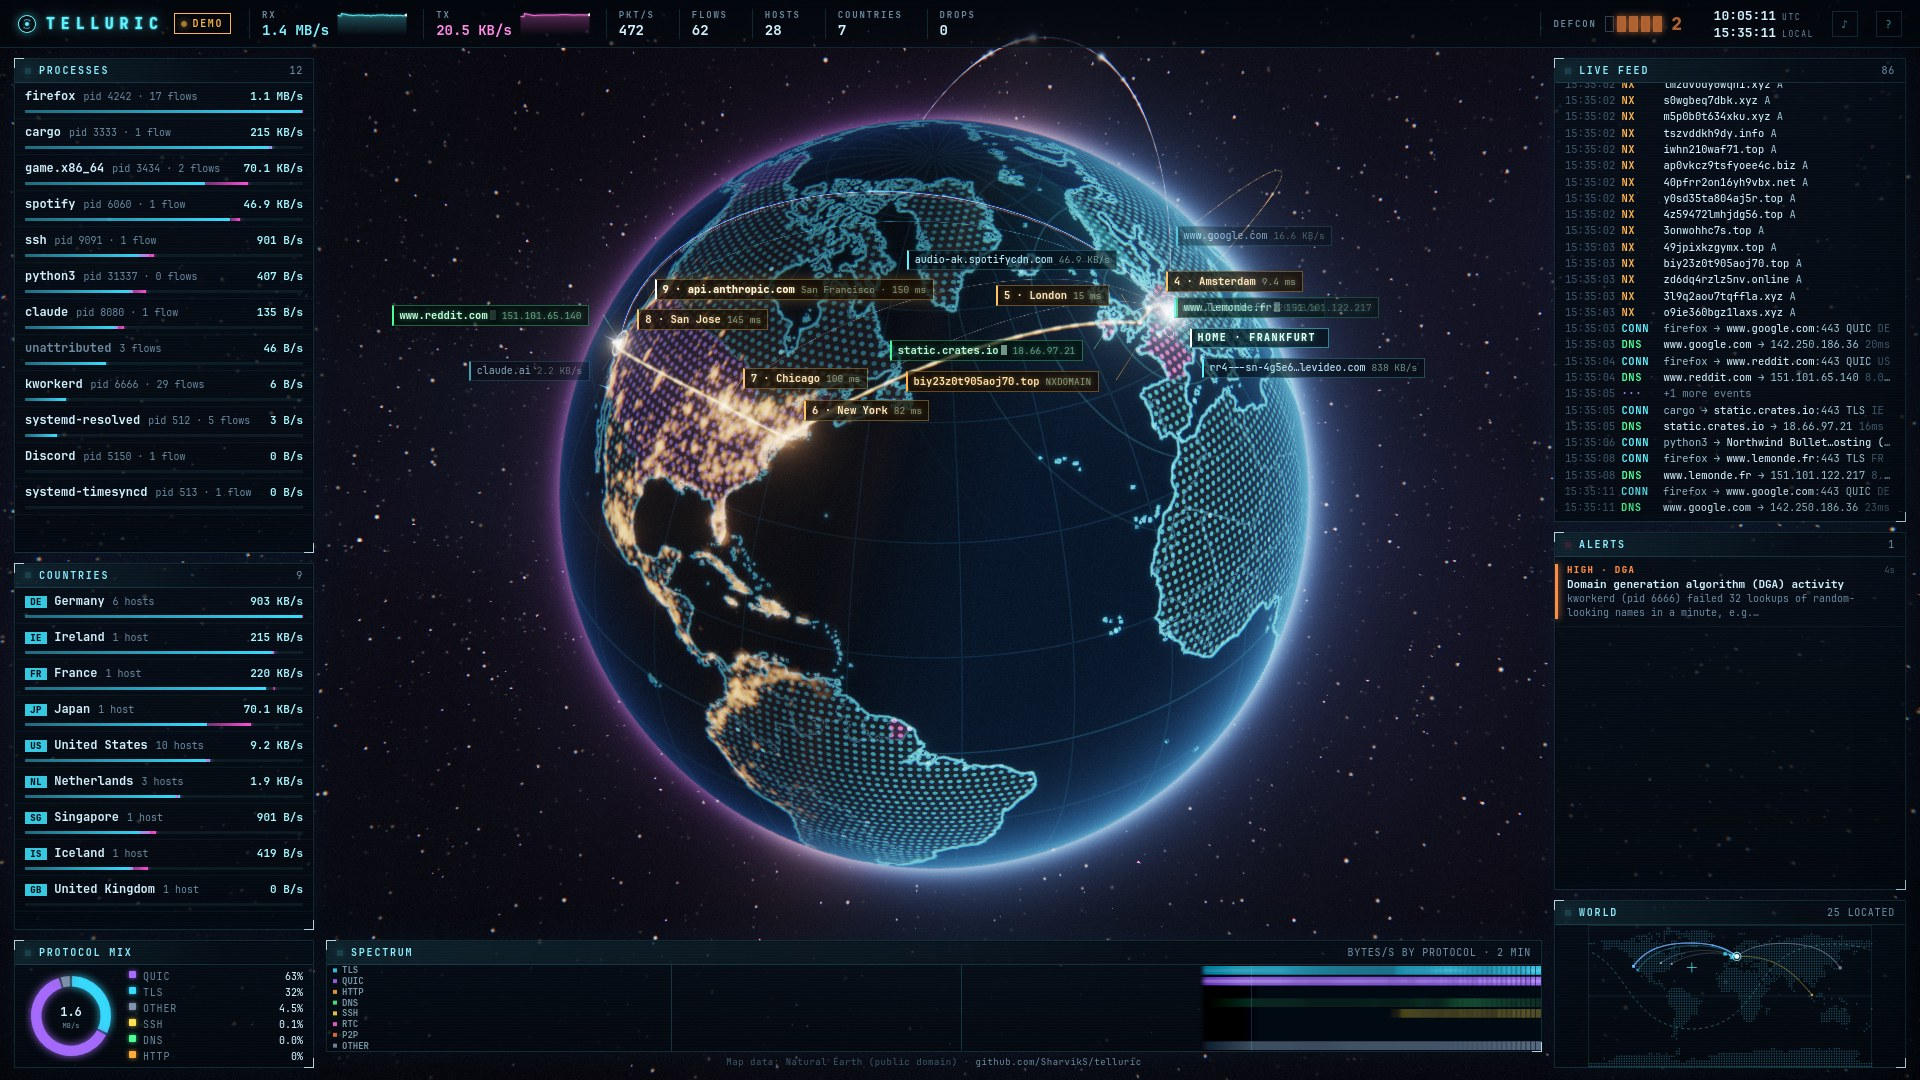
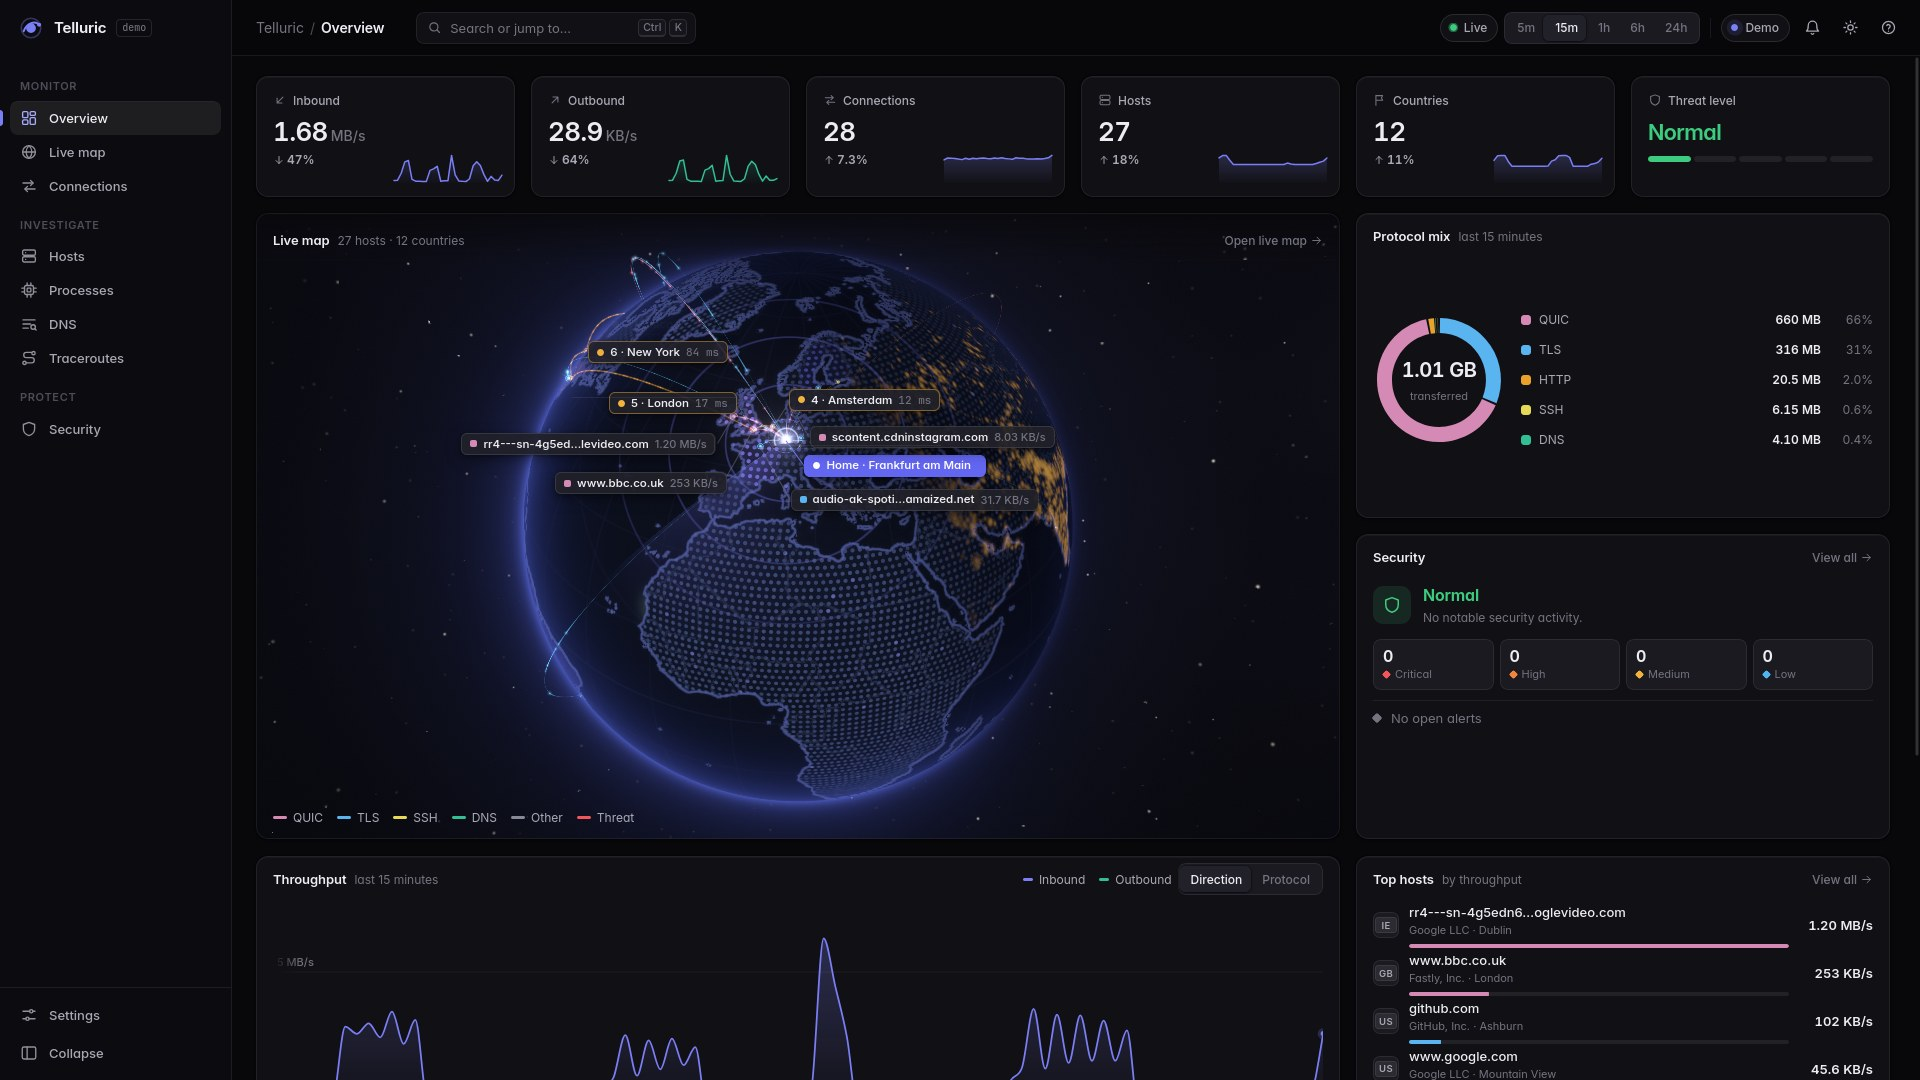
README: the enterprise console — new hero, gallery, incident workflow

diff --git a/README.md b/README.md
@@ -15,7 +15,7 @@
 ![deps](https://img.shields.io/badge/dependencies-x%2Fsys%20only-success)
 ![license](https://img.shields.io/badge/license-MIT-blue)
 
-![Telluric: an mtr traceroute drawn hop by hop from Frankfurt to San Francisco while malware's generated domains fail to resolve — DEFCON 2](docs/media/hero.jpg)
+![Telluric's Overview: live throughput, threat level and protocol mix around a WebGL globe of every connection, with an mtr traceroute drawn hop by hop across the Atlantic](docs/media/hero.jpg)
 
 </div>
 
@@ -26,18 +26,32 @@ the wire can tell (behind a local caching resolver such as systemd-resolved,
 only the resolver's own query is visible). Run `mtr`
 and the route draws itself hop by hop across the planet. A stack of
 detectors watches the traffic for beaconing malware, generated domains, DNS
-tunnels, scans, exfiltration, leaked passwords and ARP spoofing. When
-something is wrong, the globe turns red.
+tunnels, scans, exfiltration, leaked passwords and ARP spoofing. Findings
+land in a Security console where you acknowledge, resolve or mute them.
 
 *Telluric currents are the electric currents that flow through the Earth.
 These are yours.*
 
-| The alert theatre: an exfiltration, caught and named | `mtr` across the Atlantic, reconstructed from the wire |
+| Live map with the host inspector | Security: incidents with a workflow |
 |---|---|
-| ![Alert theatre](docs/media/alert-theatre.jpg) | ![Traceroute](docs/media/traceroute.jpg) |
+| ![Live map](docs/media/map.jpg) | ![Security](docs/media/security.jpg) |
+| **Connections: every conversation, live** | **Light theme** |
+| ![Connections](docs/media/connections.jpg) | ![Light theme](docs/media/light.jpg) |
 
-*Every frame above is the real engine running `--demo`: synthetic packets
-go through the same decoders and detectors as live traffic.*
+*Screens show the demo world. Synthetic packets go through the same
+decoders and detectors as live traffic.*
+
+The console has nine views: Overview, Live map, Connections, Hosts,
+Processes, DNS, Traceroutes, Security and Settings. It also offers:
+- live, virtualized data tables with filters and CSV/JSON export
+- entity drawers with a shared-element transition
+- a ⌘K command palette
+- a 5 m – 24 h time range backed by the engine's history
+- a system-status page
+- light and dark themes with an animated switch
+
+Motion, from the boot sequence to rows that glide when ranks change,
+respects `prefers-reduced-motion`.
 
 ```console
 $ make build && ./bin/telluric --demo
@@ -157,8 +171,11 @@ Telluric picks the first source that works:
 | **Anomalies** | Streaming Half-Space Trees over seven per-flow features. |
 
 Alerts name the responsible process whenever there is one (an ARP spoof or
-an inbound scan comes from another device). The global threat level, the
-**DEFCON** meter, is a decayed, severity-weighted alert pressure. Details,
+an inbound scan comes from another device). They form incidents:
+recurrences raise a count, and you can acknowledge, resolve (a recurrence
+reopens) or mute them. Mutes persist, and all open tabs stay in sync. The
+global **threat level** (Normal, Guarded, Elevated, High, Critical) is a
+decayed, severity-weighted alert pressure that ignores muted findings. Details,
 thresholds and false-positive notes are in [docs/DETECTION.md](docs/DETECTION.md).
 The demo plays every scenario every four minutes.
 
